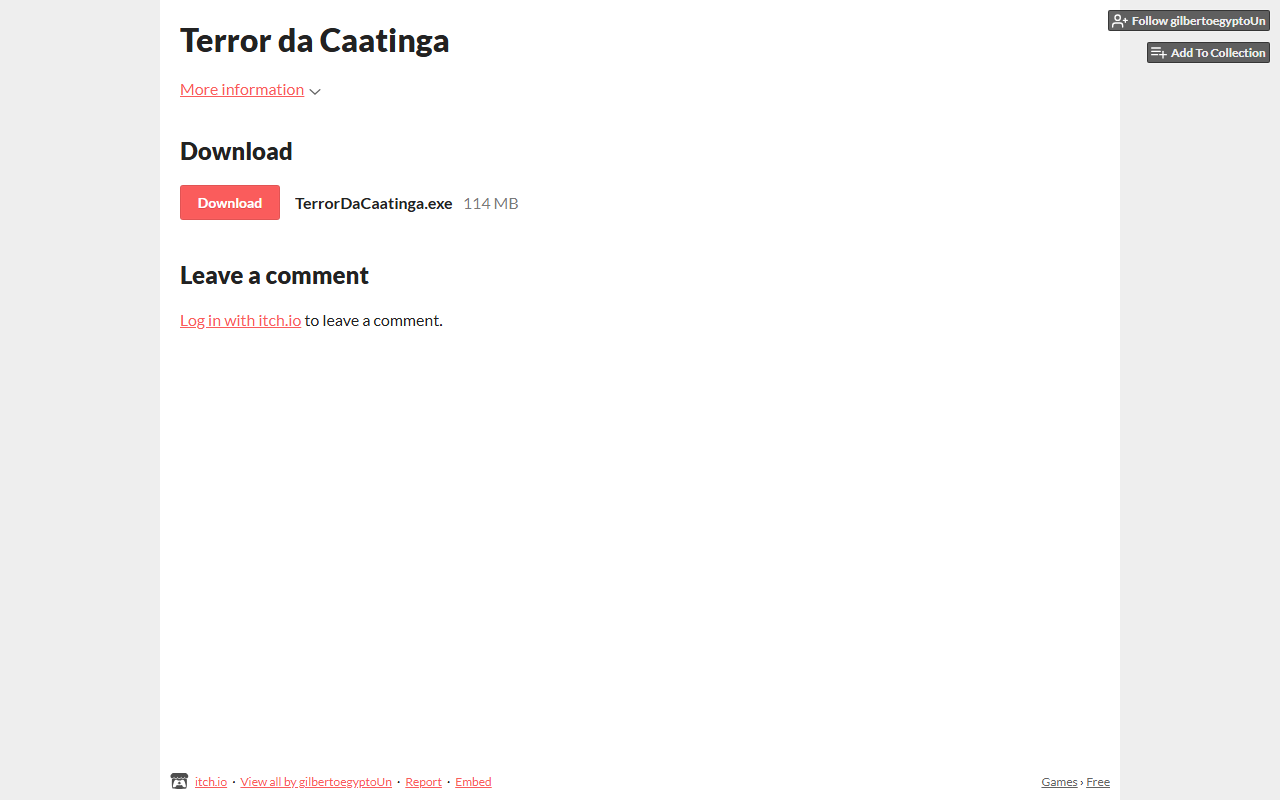
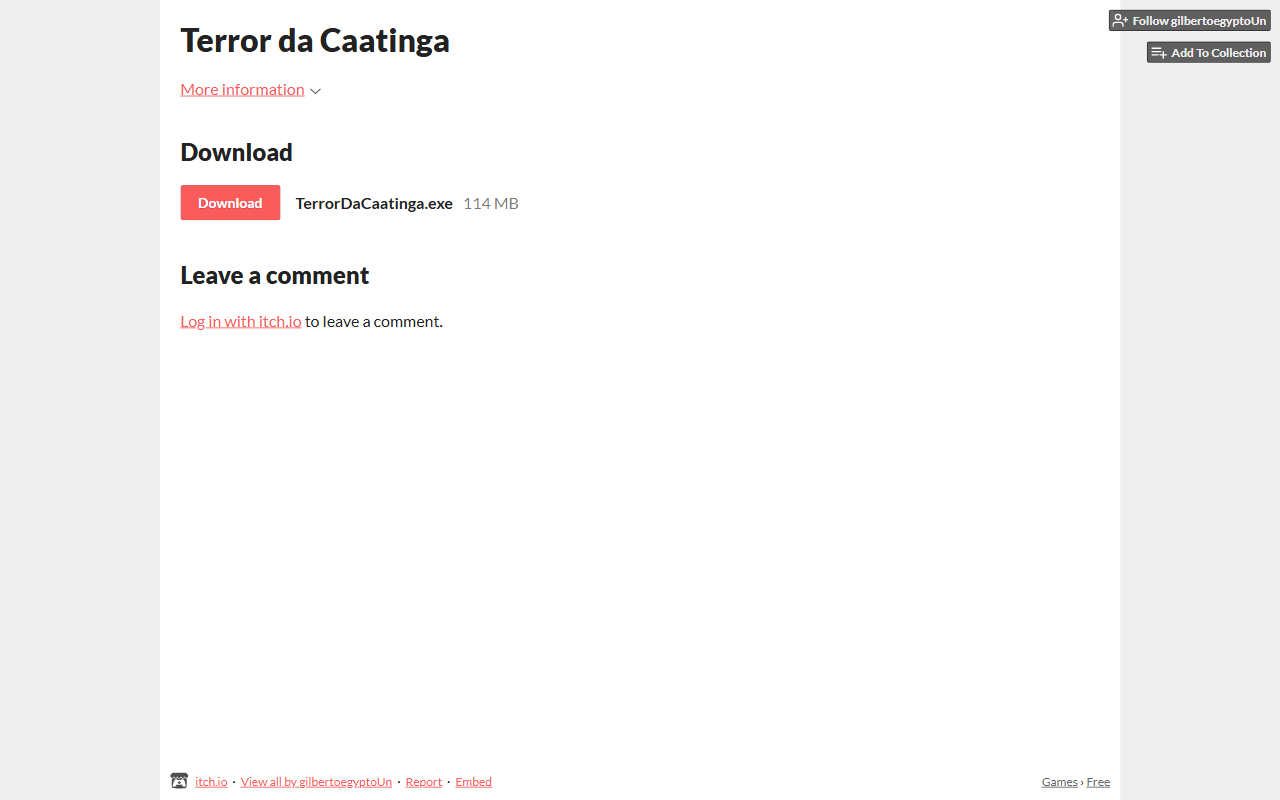
ajustes no buscar

diff --git a/src/components/Search/SearchBar.jsx b/src/components/Search/SearchBar.jsx
@@ -1,63 +1,65 @@
-import React, { useState, useCallback, useRef } from 'react';
+import React, { useState, useCallback, useRef, useEffect } from 'react';
 import './SearchBar.css';
 
-const SearchBar = ({ onSearch, placeholder = "Buscar jogos...", debounceTime = 300 }) => {
-  const [searchTerm, setSearchTerm] = useState('');
+const SearchBar = ({ onSearch, placeholder = "Buscar jogos...", debounceTime = 300, initialValue = '' }) => {
+  const [searchTerm, setSearchTerm] = useState(initialValue);
   const [isTyping, setIsTyping] = useState(false);
   const timerRef = useRef(null);
-  
-  // Função de debounce otimizada com useRef para persistir o timer
+
+  useEffect(() => {
+    setSearchTerm(initialValue);
+  }, [initialValue]);
+
   const debouncedSearch = useCallback((value) => {
-    if (timerRef.current) {
-      clearTimeout(timerRef.current);
-    }
-    
+    if (timerRef.current) clearTimeout(timerRef.current);
     setIsTyping(true);
-    
     timerRef.current = setTimeout(() => {
       onSearch(value);
       setIsTyping(false);
     }, debounceTime);
   }, [onSearch, debounceTime]);
-  
+
   const handleInputChange = (e) => {
     const value = e.target.value;
     setSearchTerm(value);
-
     if (value === '') {
-      // Se limpar o input, cancela qualquer debounce pendente
-      if (timerRef.current) {
-        clearTimeout(timerRef.current);
-        timerRef.current = null;
-      }
+      if (timerRef.current) clearTimeout(timerRef.current);
       onSearch('');
       setIsTyping(false);
     } else {
       debouncedSearch(value);
     }
   };
-  
+
   const handleSubmit = (e) => {
     e.preventDefault();
-    // Cancela qualquer debounce pendente
-    if (timerRef.current) {
-      clearTimeout(timerRef.current);
-      timerRef.current = null;
-    }
+    if (timerRef.current) clearTimeout(timerRef.current);
     onSearch(searchTerm);
     setIsTyping(false);
   };
-  
+
   const handleClear = () => {
     setSearchTerm('');
-    if (timerRef.current) {
-      clearTimeout(timerRef.current);
-      timerRef.current = null;
-    }
+    if (timerRef.current) clearTimeout(timerRef.current);
     onSearch('');
     setIsTyping(false);
   };
-  
+
+  const SearchIcon = () => (
+    <svg 
+      xmlns="http://www.w3.org/2000/svg" 
+      width="24" 
+      height="24" 
+      viewBox="0 0 24 24"
+      className="search-icon"
+    >
+      <path 
+        fill="currentColor" 
+        d="M9.5 16q-2.725 0-4.612-1.888T3 9.5t1.888-4.612T9.5 3t4.613 1.888T16 9.5q0 1.1-.35 2.075T14.7 13.3l5.6 5.6q.275.275.275.7t-.275.7t-.7.275t-.7-.275l-5.6-5.6q-.75.6-1.725.95T9.5 16m0-2q1.875 0 3.188-1.312T14 9.5t-1.312-3.187T9.5 5T6.313 6.313T5 9.5t1.313 3.188T9.5 14"
+      />
+    </svg>
+  );
+
   return (
     <div className="search-bar">
       <form onSubmit={handleSubmit}>
@@ -67,49 +69,17 @@ const SearchBar = ({ onSearch, placeholder = "Buscar jogos...", debounceTime = 3
             value={searchTerm}
             onChange={handleInputChange}
             placeholder={placeholder}
-            aria-label="Buscar jogos"
           />
-          {searchTerm && (
-            <button 
-              type="button" 
-              className="clear-button" 
-              onClick={handleClear}
-              aria-label="Limpar busca"
-            >
-              <svg xmlns="http://www.w3.org/2000/svg" width="18" height="18" viewBox="0 0 24 24">
-                <path fill="currentColor" d="M19 6.41L17.59 5L12 10.59L6.41 5L5 6.41L10.59 12L5 17.59L6.41 19L12 13.41L17.59 19L19 17.59L13.41 12L19 6.41z"/>
-              </svg>
-            </button>
-          )}
+          <button type="submit" className="search-button">
+            <SearchIcon />
+          </button>
         </div>
-        <button type="submit" aria-label="Buscar">
-          {isTyping ? (
-            <svg xmlns="http://www.w3.org/2000/svg" width="24" height="24" viewBox="0 0 24 24">
-              <circle cx="12" cy="12" r="8" fill="none" stroke="currentColor" strokeWidth="2" opacity="0.2" />
-              <path 
-                d="M12 4 a8 8 0 0 1 8 8"
-                fill="none" 
-                stroke="currentColor"
-                strokeWidth="2"
-                strokeLinecap="round"
-              >
-                <animateTransform
-                  attributeName="transform"
-                  type="rotate"
-                  from="0 12 12"
-                  to="360 12 12"
-                  dur="1s"
-                  repeatCount="indefinite"
-                />
-              </path>
-            </svg>
-          ) : (
-            <svg xmlns="http://www.w3.org/2000/svg" width="24" height="24" viewBox="0 0 24 24">
-              <path fill="currentColor" d="M9.5 16q-2.725 0-4.612-1.888T3 9.5t1.888-4.612T9.5 3t4.613 1.888T16 9.5q0 1.1-.35 2.075T14.7 13.3l5.6 5.6q.275.275.275.7t-.275.7t-.7.275t-.7-.275l-5.6-5.6q-.75.6-1.725.95T9.5 16m0-2q1.875 0 3.188-1.312T14 9.5t-1.312-3.187T9.5 5T6.313 6.313T5 9.5t1.313 3.188T9.5 14"/>
-            </svg>
-          )}
-        </button>
       </form>
+      {searchTerm && (
+        <button onClick={handleClear} className="clear-button">
+          Limpar busca
+        </button>
+      )}
     </div>
   );
 };

diff --git a/src/pages/Library/Library.jsx b/src/pages/Library/Library.jsx
@@ -453,12 +453,7 @@ function Library() {
     setIsSearching(!!term);
   }, [lastSearchTerm]);
 
-  // Limpar busca
-  const handleClearSearch = useCallback(() => {
-    setSearchTerm('');
-    setLastSearchTerm('');
-    setIsSearching(false);
-  }, []);
+
 
   // Debug function
   const logGameTags = useCallback(() => {
@@ -550,16 +545,12 @@ function Library() {
           </button>
 
           <SearchBar 
-            onSearch={handleSearch} 
-            debounceTime={500} 
-            initialValue={searchTerm}
-          />
+  onSearch={handleSearch} 
+  debounceTime={500} 
+  initialValue={searchTerm}
+/>
 
-          {isSearching && (
-            <button className="clear-search-button" onClick={handleClearSearch}>
-              Limpar busca
-            </button>
-          )}
+          
         </div>
       </header>
 
@@ -680,15 +671,7 @@ function Library() {
                 ) : (
                   <p>Nenhum jogo disponível</p>
                 )}
-                
-                {(isSearching || isFiltering) && (
-                  <button className="clear-all-button" onClick={() => {
-                    handleClearSearch();
-                    handleClearFilters();
-                  }}>
-                    Limpar todos os filtros
-                  </button>
-                )}
+               
               </div>
             )}
           </>

diff --git a/src/components/Search/SearchBar.css b/src/components/Search/SearchBar.css
@@ -1,10 +1,13 @@
 .search-bar {
   margin: 0 20px;
+  display: flex;
+  align-items: center;
 }
 
 .search-bar form {
   display: flex;
   position: relative;
+  flex-grow: 1;
 }
 
 .search-input-container {
@@ -13,8 +16,8 @@
 }
 
 .search-bar input {
-  width: 227px;
-  padding: 0 40px 0 24px; /* Aumentei o padding direito para acomodar o botão limpar */
+  width: 100%;
+  padding: 0 40px 0 24px;
   height: 46px;
   border: 1px solid #ddd;
   border-radius: 20px;
@@ -22,13 +25,14 @@
   color: #090B81;
   outline: none;
   background-color: #ECF1F5;
+  box-sizing: border-box;
 }
 
 .search-bar input:focus {
   border-color: #3498db;
 }
 
-.search-bar button[type="submit"] {
+.search-button {
   position: absolute;
   right: 5px;
   top: 50%;
@@ -45,10 +49,7 @@
 }
 
 .clear-button {
-  position: absolute;
-  right: 32px; 
-  top: 50%;
-  transform: translateY(-50%);
+  margin-left: 8px;
   background: none;
   border: none;
   cursor: pointer;
@@ -58,6 +59,8 @@
   display: flex;
   align-items: center;
   justify-content: center;
+  white-space: nowrap;
+  height: 46px;
 }
 
 .clear-button:hover {
@@ -66,8 +69,4 @@
 
 .search-icon {
   display: inline-block;
-}
-
-.background-demo--2 {
-  background-image: url('https://api.iconify.design/fluent-emoji-flat/memo.svg');
 }
